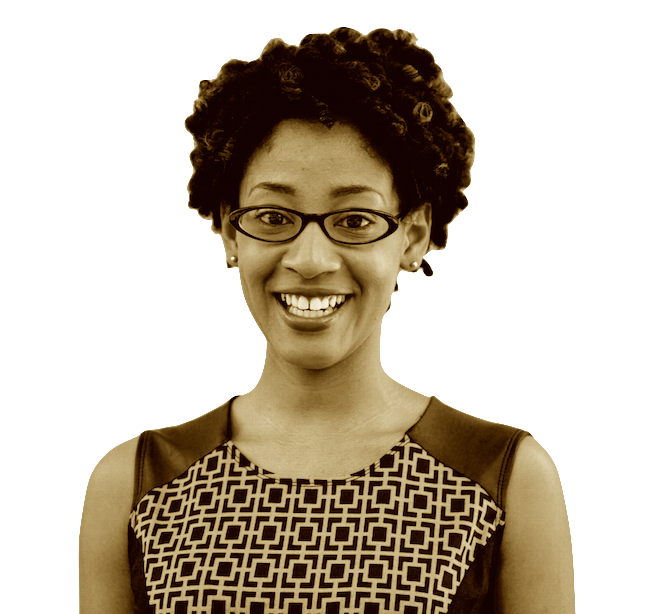
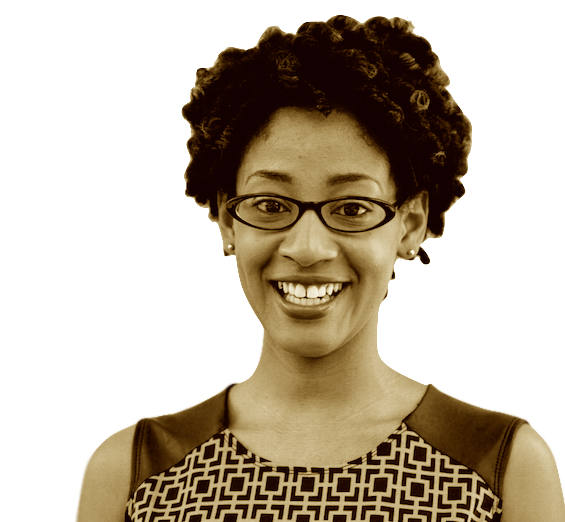
new hero styles and assets

diff --git a/index-copy.html b/index-copy.html
@@ -41,28 +41,34 @@
 	</nav>
 
 	<!-- hero -->
-	<div class="section no-pad-bot" id="hero">
+	<div class="hero section no-pad-bot" id="hero">
 		<div class="container">
 			<div class="row">
-				<div class="col s12 m6 l6">
-					<h1>Tagline</h1>
-					<h2>Lorem ipsum dolor sit amet, consectetur adipiscing elit, sed do eiusmod tempor incididunt ut labore et dolore magna aliqua. Ut enim ad minim veniam, quis nostrud exercitation ullamco laboris nisi ut aliquip ex ea commodo consequat.</h2>
-					<a href="https://linkedin.com/in/bdep90" target="_blank"><i class="fa fa-linkedin-square fa-2x"></i></a>
-					<a href="https://github.com/bdep90" target="_blank"><i class="fa fa-github-square fa-2x"></i></a>
-					<a href="https://twitter.com/brij_it" target="_blank"><i class="fa fa-twitter-square fa-2x"></i></a>
-					<a href="mailto:about@bdepay.info" target="_blank"><i class="fa fa-envelope-square fa-2x"></i></a>
+				<div class="content col s12 m6 l5">
+					<h1>Hi, I'm Bridgette.</h1>
+					<div class="hide-on-med-and-up center-align"><img src="pics/profile-sm.png" class="banner-img circle responsive-img"></img></div>
+					<h2>I design and build websites. Clients hire me to help promote their brand identity, establish virtual communities, and target specific audiences effectively.</h2>
+					<p>Connect with Me</p>
+					<a href="https://linkedin.com/in/bdep90" target="_blank"><i class="fa fa-linkedin-square fa-3x"></i></a>
+					<a href="https://github.com/bdep90" target="_blank"><i class="fa fa-github-square fa-3x"></i></a>
+					<a href="https://twitter.com/brij_it" target="_blank"><i class="fa fa-twitter-square fa-3x"></i></a>
+					<a href="mailto:about@bdepay.info" target="_blank"><i class="fa fa-envelope-square fa-3x"></i></a>
 				</div>
-				<img 
-					class="banner-image responsive-image col s12 m6 l6" 
+				<div class="hide-on-med-and-down col l7"><img 
+					class="banner-img responsive-img" 
 					src="pics/profile.png" 
-					alt="Bridgette Depay profile photo"></img>
-				<div class="col s12 m12 l12 center-align"><a class="scroll-down" href="#projects"><i class="fa fa-angle-double-down fa-2x"></i></a></div>
+					alt="Bridgette Depay profile photo"></img></div>	
+				<div class="hide-on-large-only hide-on-small-only col m6"><img 
+					class="banner-img responsive-img circle" 
+					src="pics/profile-sm.png" 
+					alt="Bridgette Depay profile photo"></img></div>				
+				<!-- <div class="col s12 m12 l12 center-align"><a class="scroll-down" href="#projects"><i class="fa fa-angle-double-down fa-2x"></i></a></div> -->
 			</div>
 		</div>
 	</div>
 
 	<!-- projects -->
-	<div class="container" id="projects">
+	<div class="projects container" id="projects">
 		<div class="section">
 			<div class="row">
 				<div class="col s12 m12">
@@ -133,7 +139,7 @@
 	</div>
 
 	<!-- about -->
-	<div class="container" id="about">
+	<div class="about container" id="about">
 		<div class="section">
 			<div class="row">
 				<div class="col s12 m12">

diff --git a/css/style.css b/css/style.css
@@ -25,13 +25,13 @@ h1 {
 
 h2 {
 	font-size: 24px;
-	margin: 0 0 20px;
+	margin: 0 0 30px;
 }
 
 h3 {
 	font-family: 'Droid Sans', sans-serif;
 	font-size: 30px;
-	margin-: 0 0 34px;
+	margin-bottom: 0 0 34px;
 }
 
 p {
@@ -48,12 +48,16 @@ a, i {
 	color: #000;
 }
 
+i {
+	padding-right: 5px;
+}
+
 span {
 	display: block;
 }
 
 .container {
-	width: 85%;
+	width: 90%;
 }
 
 .section {
@@ -95,15 +99,21 @@ nav .brand-logo, nav .brand-logo img {
 	height: 45px;
 	bottom: 7px;
 }
-nav ul a,
-.sidenav a {
+nav ul a, .sidenav a {
 	font-size: 16px !important;
 	color: #6200ea !important;
 }
-
 nav i { color: #6200ea; }
 
 /* hero */
+.hero {
+	height: 95vh;
+	display: flex;
+	align-items: flex-end;
+}
+.hero .content { padding-top: 8em; }
+.hero p { margin-bottom: 14px; }
+.hero i { color: #f9cf51; }
 
 /* projects */
 
@@ -122,8 +132,14 @@ nav i { color: #6200ea; }
 
 /* medium screen */
 @media only screen and (max-width: 992px) {
+	.hero { height: auto; }
+	.hero .content { padding-top: 3em; }
 }
 
 /* small screen */
 @media only screen and (max-width: 600px) {
+	.hero .banner-img { 
+		height: 18em;	
+		padding: 1em 0; 
+	}
 }
